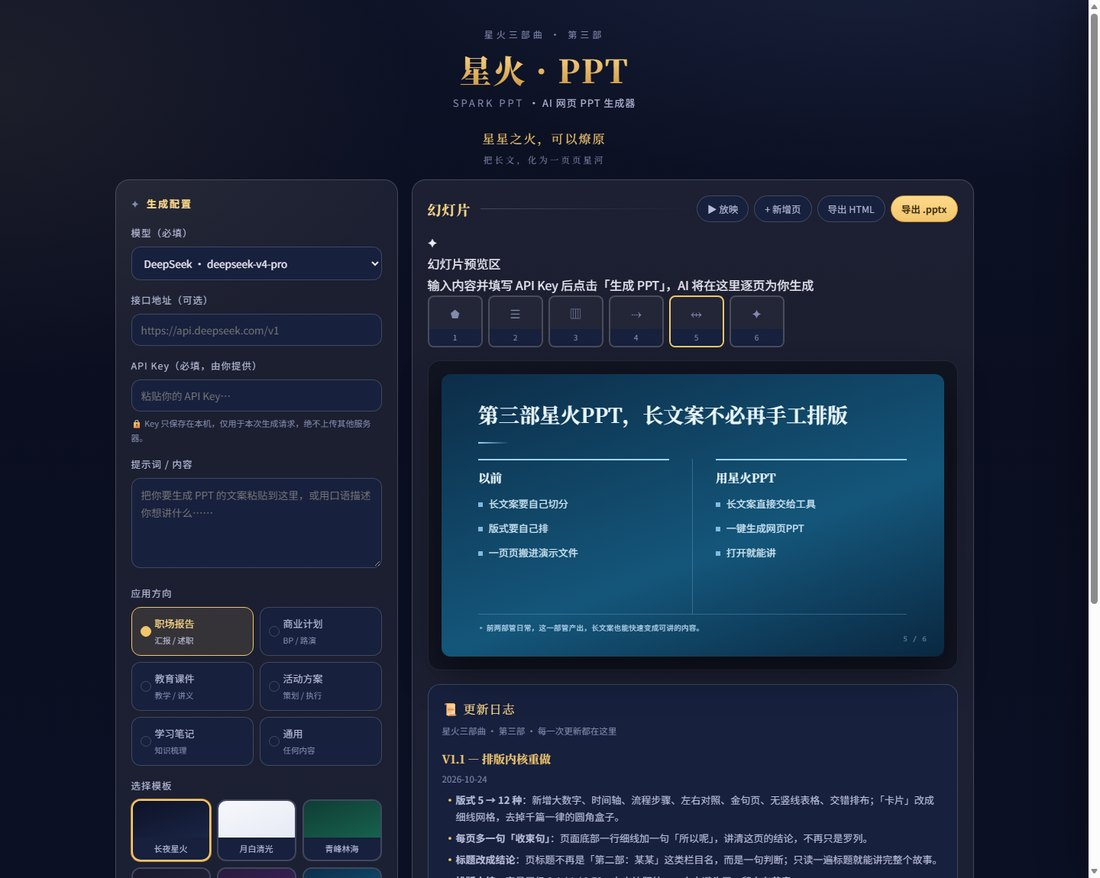
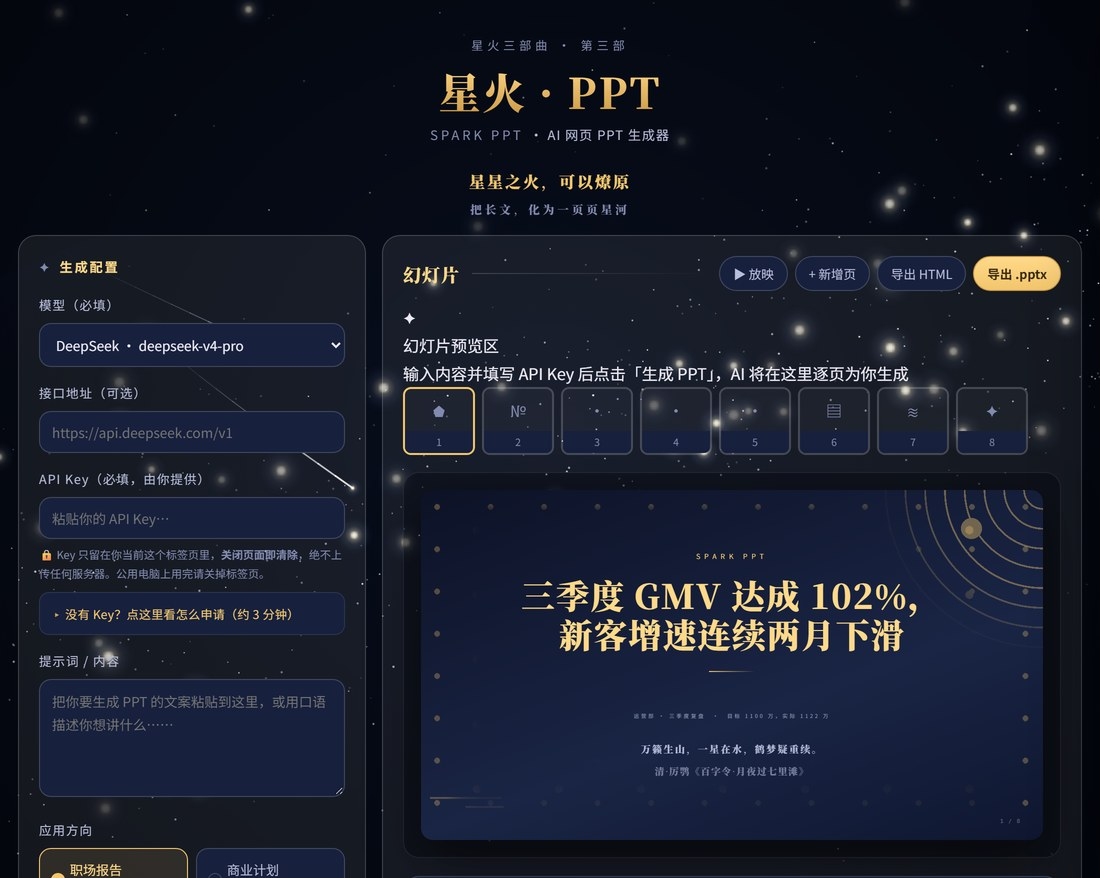
screenshots: regenerate ppt deck views (compare/pages/points) from 星火PPT offline deck browser - real V3.6 UI with 星河 background; update alts to match

diff --git a/projects/ppt.html b/projects/ppt.html
@@ -72,7 +72,7 @@
       <div class="features">
         <article class="feature">
           <div class="ph">
-            <img src="../assets/ppt-compare.jpg" width="1100" height="878" alt="星火PPT 生成后的左右对照页，可点页编辑、切换版式" loading="lazy">
+            <img src="../assets/ppt-compare.jpg" width="1100" height="878" alt="星火PPT 生成后的逐页浏览：左侧缩略图条可点页跳转，右侧大图实时预览" loading="lazy">
           </div>
           <div class="body">
             <h4>一页一页长出来，想改哪页改哪页</h4>
@@ -90,7 +90,7 @@
         </article>
         <article class="feature">
           <div class="ph tall">
-            <img src="../assets/ppt-pages.jpg" width="900" height="1638" alt="星火PPT 生成的连续多页：封面、要点页与表格页，版式各不相同" loading="lazy">
+            <img src="../assets/ppt-pages.jpg" width="900" height="1638" alt="星火PPT 生成的连续多页：封面、四个大数字页与无竖线表格页，版式各不相同" loading="lazy">
           </div>
           <div class="body">
             <h4>不用装东西，打开网页就能用</h4>
@@ -163,7 +163,7 @@
       </table>
 
       <div class="big-shot" style="margin-top:26px">
-        <img src="../assets/ppt-points.jpg" width="1100" height="878" alt="星火PPT 生成的要点页：标题即结论，底部细线下压一句收束句" loading="lazy">
+        <img src="../assets/ppt-points.jpg" width="1100" height="878" alt="星火PPT 生成的大数字页：标题即结论，底部细线下压一句收束句" loading="lazy">
         <div class="cap">生成实景 &#183; 标题给结论、底部细线下压一句「所以呢」——不是罗列要点就完事</div>
       </div>
 
